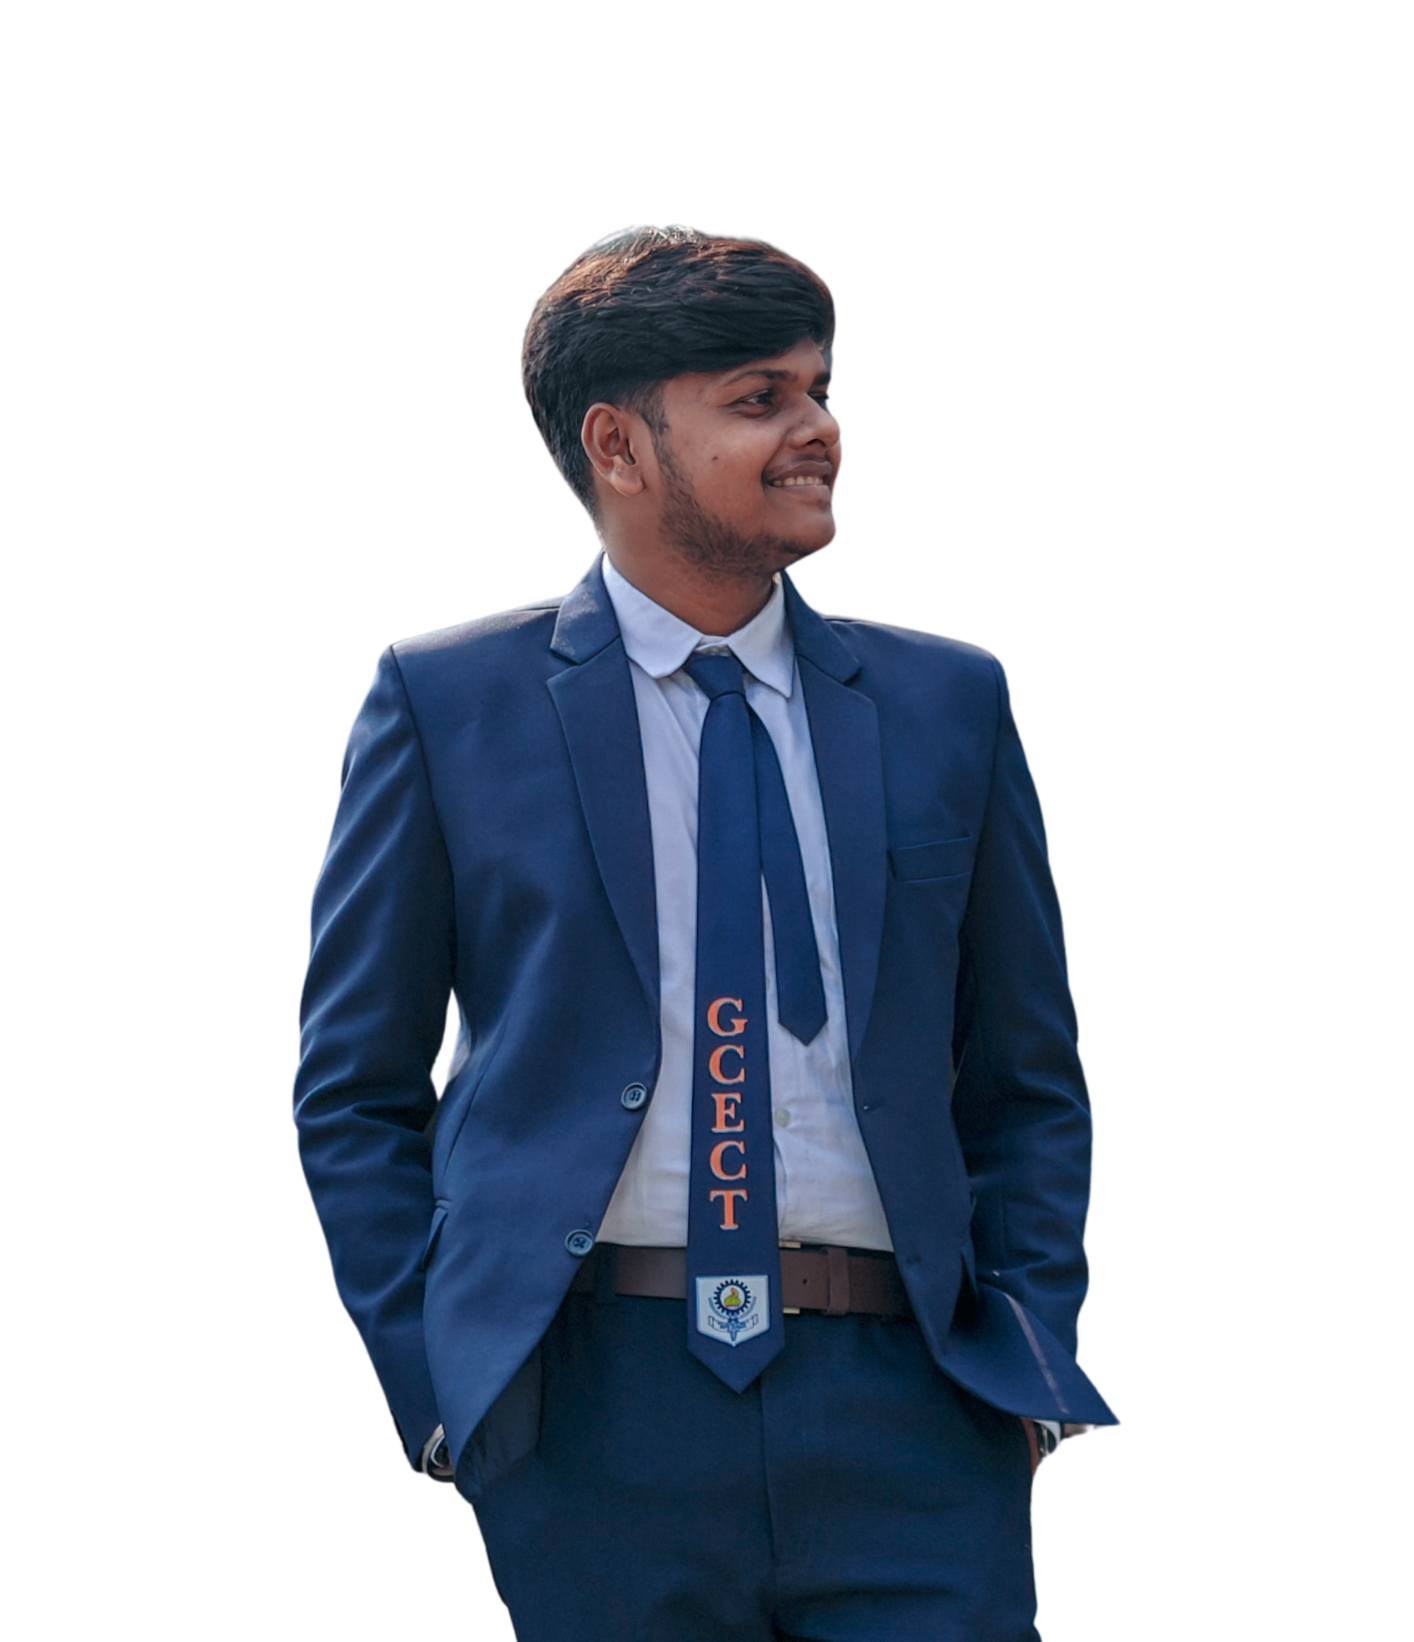
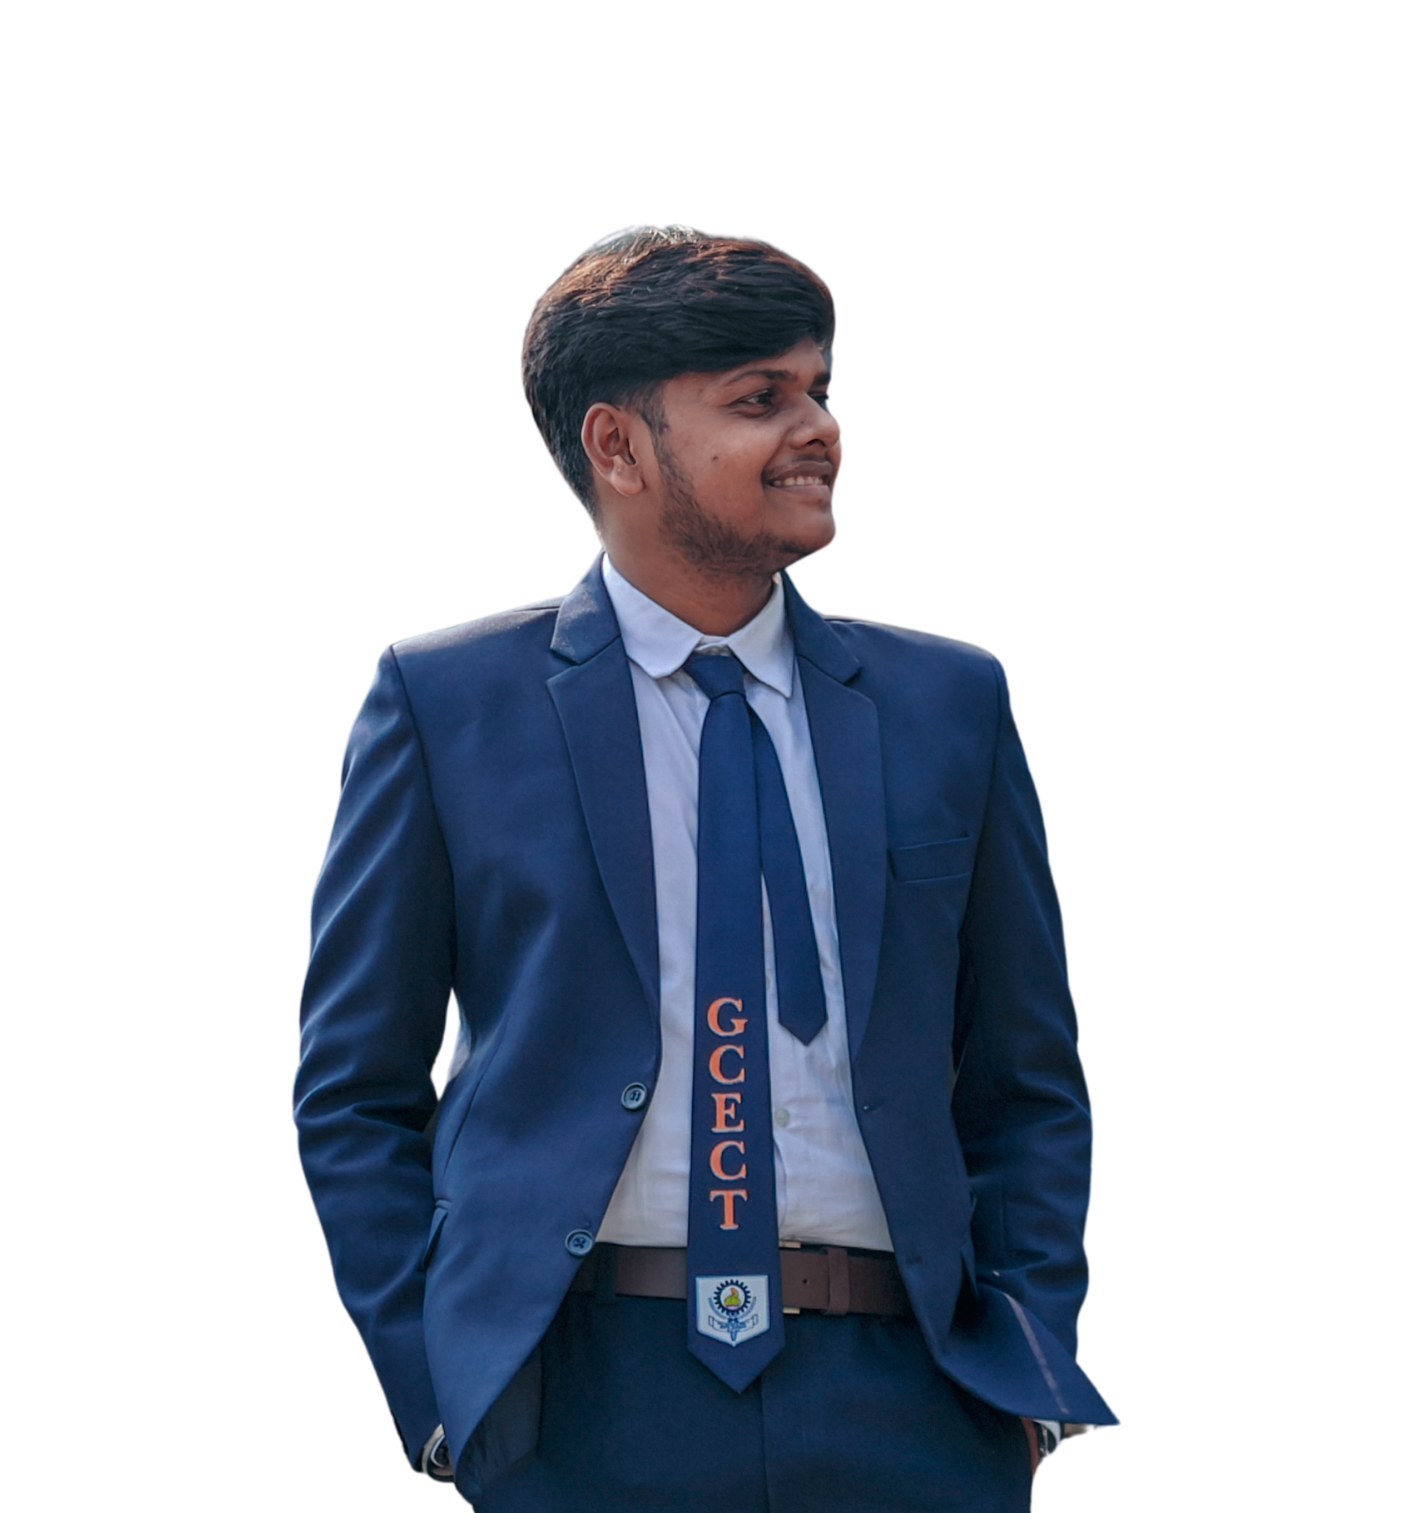
add team images

Changed region(s): [[0.1867, 0.1243, 0.8091, 1.0], [0.6223, 0.497, 0.6846, 0.6523], [0.4668, 0.963, 0.4979, 0.9941]]

diff --git a/src/components/Navbar.jsx b/src/components/Navbar.jsx
@@ -78,12 +78,15 @@ const Navbar = () => {
         </ul>
 
         {/* Desktop CTA */}
-        <button
+        <a
           id="nav-register-btn"
-          className="hidden md:block font-['Space_Grotesk',sans-serif] text-[0.8rem] font-semibold tracking-[1.5px] uppercase text-bg bg-accent border-none py-[0.6rem] px-6 cursor-pointer transition duration-300 hover:bg-accent-hover hover:-translate-y-px focus-visible:outline-none focus-visible:ring-2 focus-visible:ring-accent focus-visible:ring-offset-2 focus-visible:ring-offset-bg rounded-sm"
+          href="https://forms.gle/bzqzBgswUN2khZ8L9"
+          target="_blank"
+          rel="noopener noreferrer"
+          className="hidden md:block font-['Space_Grotesk',sans-serif] text-[0.8rem] font-semibold tracking-[1.5px] uppercase text-bg bg-accent border-none py-[0.6rem] px-6 cursor-pointer transition duration-300 hover:bg-accent-hover hover:-translate-y-px focus-visible:outline-none focus-visible:ring-2 focus-visible:ring-accent focus-visible:ring-offset-2 focus-visible:ring-offset-bg rounded-sm no-underline"
         >
           Register
-        </button>
+        </a>
 
         {/* Mobile hamburger */}
         <button
@@ -126,12 +129,15 @@ const Navbar = () => {
             {link}
           </a>
         ))}
-        <button
-          className="font-['Space_Grotesk',sans-serif] text-[0.8rem] font-semibold tracking-[1.5px] uppercase text-bg bg-accent border-none py-[0.6rem] px-6 cursor-pointer transition duration-300 hover:bg-accent-hover hover:-translate-y-px focus-visible:outline-none focus-visible:ring-2 focus-visible:ring-accent focus-visible:ring-offset-2 focus-visible:ring-offset-bg rounded-sm"
+        <a
+          href="https://forms.gle/bzqzBgswUN2khZ8L9"
+          target="_blank"
+          rel="noopener noreferrer"
+          className="font-['Space_Grotesk',sans-serif] text-[0.8rem] font-semibold tracking-[1.5px] uppercase text-bg bg-accent border-none py-[0.6rem] px-6 cursor-pointer transition duration-300 hover:bg-accent-hover hover:-translate-y-px focus-visible:outline-none focus-visible:ring-2 focus-visible:ring-accent focus-visible:ring-offset-2 focus-visible:ring-offset-bg rounded-sm no-underline"
           onClick={handleLinkClick}
         >
           Register
-        </button>
+        </a>
       </div>
     </>
   );

diff --git a/src/components/HeroSection.jsx b/src/components/HeroSection.jsx
@@ -212,12 +212,15 @@ const HeroSection = () => {
           >
             Explore Events
           </button>
-          <button
-            className="hero__btn hero__btn--outline font-['Space_Grotesk',sans-serif] text-[0.8rem] font-semibold tracking-[2px] uppercase py-[0.85rem] px-[2.2rem] w-full max-w-[280px] md:w-auto text-center cursor-pointer transition-transform duration-300 bg-transparent text-text border border-border hover:border-accent hover:text-accent hover:-translate-y-[2px] focus-visible:outline-none focus-visible:ring-2 focus-visible:ring-accent focus-visible:ring-offset-2 focus-visible:ring-offset-bg rounded-sm"
+          <a
             id="hero-register-btn"
+            href="https://forms.gle/bzqzBgswUN2khZ8L9"
+            target="_blank"
+            rel="noopener noreferrer"
+            className="hero__btn hero__btn--outline font-['Space_Grotesk',sans-serif] text-[0.8rem] font-semibold tracking-[2px] uppercase py-[0.85rem] px-[2.2rem] w-full max-w-[280px] md:w-auto text-center cursor-pointer transition-transform duration-300 bg-transparent text-text border border-border hover:border-accent hover:text-accent hover:-translate-y-[2px] focus-visible:outline-none focus-visible:ring-2 focus-visible:ring-accent focus-visible:ring-offset-2 focus-visible:ring-offset-bg rounded-sm no-underline"
           >
             Register Now
-          </button>
+          </a>
         </div>
       </div>
 

diff --git a/src/components/TeamSection.jsx b/src/components/TeamSection.jsx
@@ -23,25 +23,30 @@ const members = [
     initials: "RM",
     img: "/images/team/Rudrajyoty_Mahata.png",
   },
-  { name: "Rajarshee Hazari", role: "Treasurer", initials: "RH", img: null },
-  { name: "Debrup Das", role: "Game Secretary", initials: "DD", img: null },
+  { name: "Rajarshee Hazari", role: "Treasurer", initials: "RH", img: "images/team/Rajarshee_Hazari.png" },
+  {
+    name: "Debrup Das",
+    role: "Game Secretary",
+    initials: "DD",
+    img: "images/team/Debrup_Das.png",
+  },
   {
     name: "Bidwattar Kar",
     role: "Cultural Secretary",
     initials: "BK",
-    img: null,
+    img: "images/team/Bidwattar_Kar.png",
   },
   {
     name: "Pratik Haldar",
     role: "Asst. General Secretary",
     initials: "PH",
-    img: null,
+    img: "images/team/Pratik_Haldar.png",
   },
   {
     name: "Epsita Dutta",
     role: "Public Relation Lead",
     initials: "ED",
-    img: null,
+    img: "images/team/Epsita_Dutta.png",
   },
 ];
 

diff --git a/src/components/Footer.jsx b/src/components/Footer.jsx
@@ -20,7 +20,12 @@ const FooterContent = () => {
   ];
 
   const participateLinks = [
-    { label: "Register Now", href: "#register" },
+    {
+      label: "Register Now",
+      href: "https://forms.gle/bzqzBgswUN2khZ8L9",
+      target: "_blank",
+      rel: "noopener noreferrer",
+    },
     { label: "Become a Sponsor", href: "#sponsors" },
     { label: "Volunteer", href: "#contact" },
   ];
@@ -107,6 +112,8 @@ const FooterContent = () => {
                 <li key={link.label}>
                   <a
                     href={link.href}
+                    target={link.target}
+                    rel={link.rel}
                     className="font-['Space_Grotesk',sans-serif] text-[0.875rem] text-text-dim tracking-[1px] transition-colors duration-300 hover:text-accent"
                   >
                     {link.label}

diff --git a/src/components/EventsSection.jsx b/src/components/EventsSection.jsx
@@ -241,7 +241,9 @@ const EventCard = ({ event, isActive, onHover, onLeave, isAnyActive }) => {
             {event.date}
           </p>
           <a
-            href="#register"
+            href="https://forms.gle/bzqzBgswUN2khZ8L9"
+            target="_blank"
+            rel="noopener noreferrer"
             className="font-['Space_Grotesk',sans-serif] text-[0.7rem] font-semibold tracking-[2px] uppercase px-5 py-2 border transition duration-300 hover:-translate-y-px focus-visible:outline-none focus-visible:ring-2 focus-visible:ring-accent focus-visible:ring-offset-2 focus-visible:ring-offset-bg rounded-sm"
             style={{
               borderColor: event.accentColor,

diff --git a/src/components/SponsorsSection.jsx b/src/components/SponsorsSection.jsx
@@ -14,7 +14,7 @@ const sponsorTiers = [
     ],
   },
   {
-    name: "Co-Sponsored By",
+    name: "Co-Powered By",
     sponsors: [
       { name: "Synapsis Medical", img: "/images/sponcers/synapsismedical.png" },
       // { name: "TCS", logo: "TCS" },
